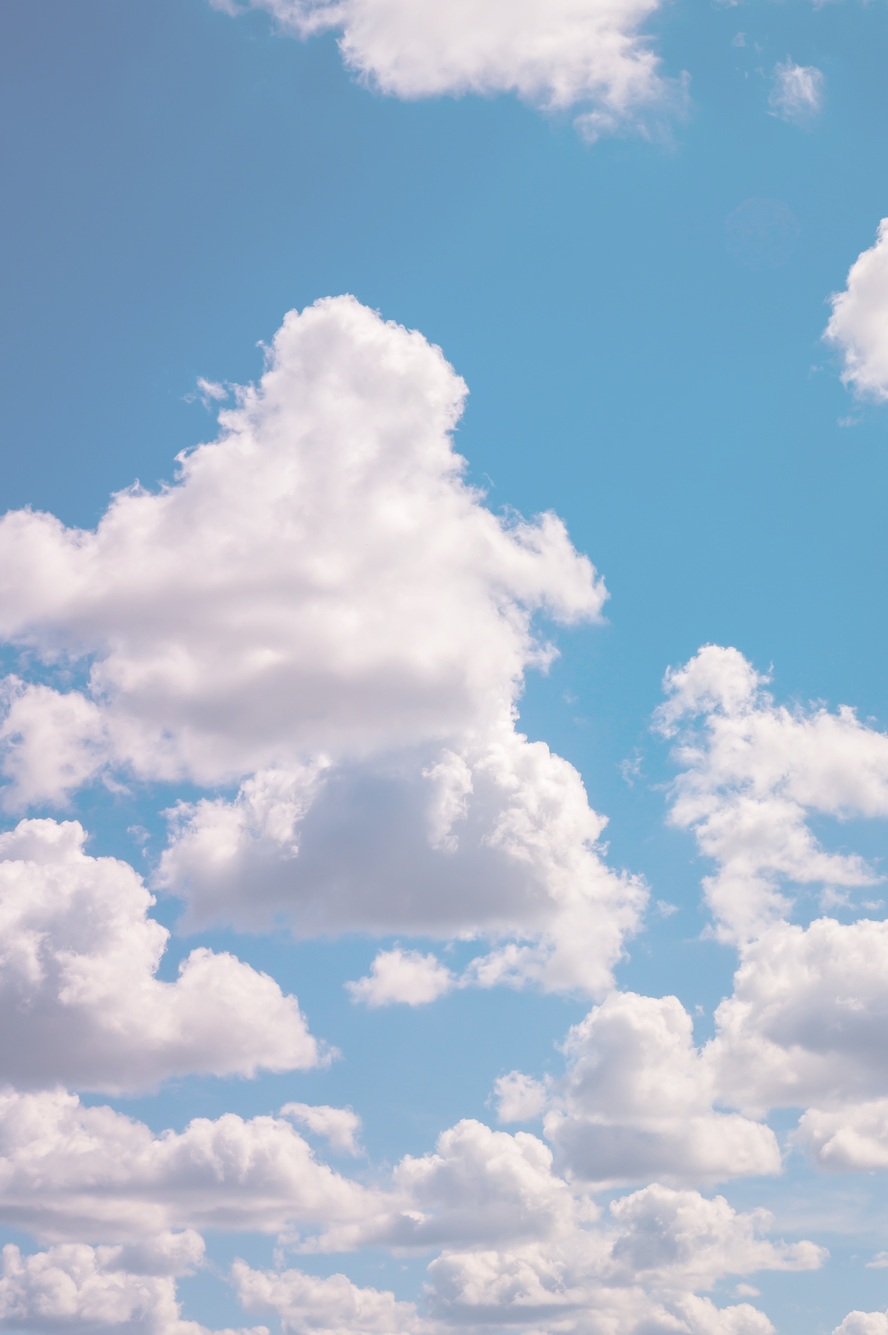
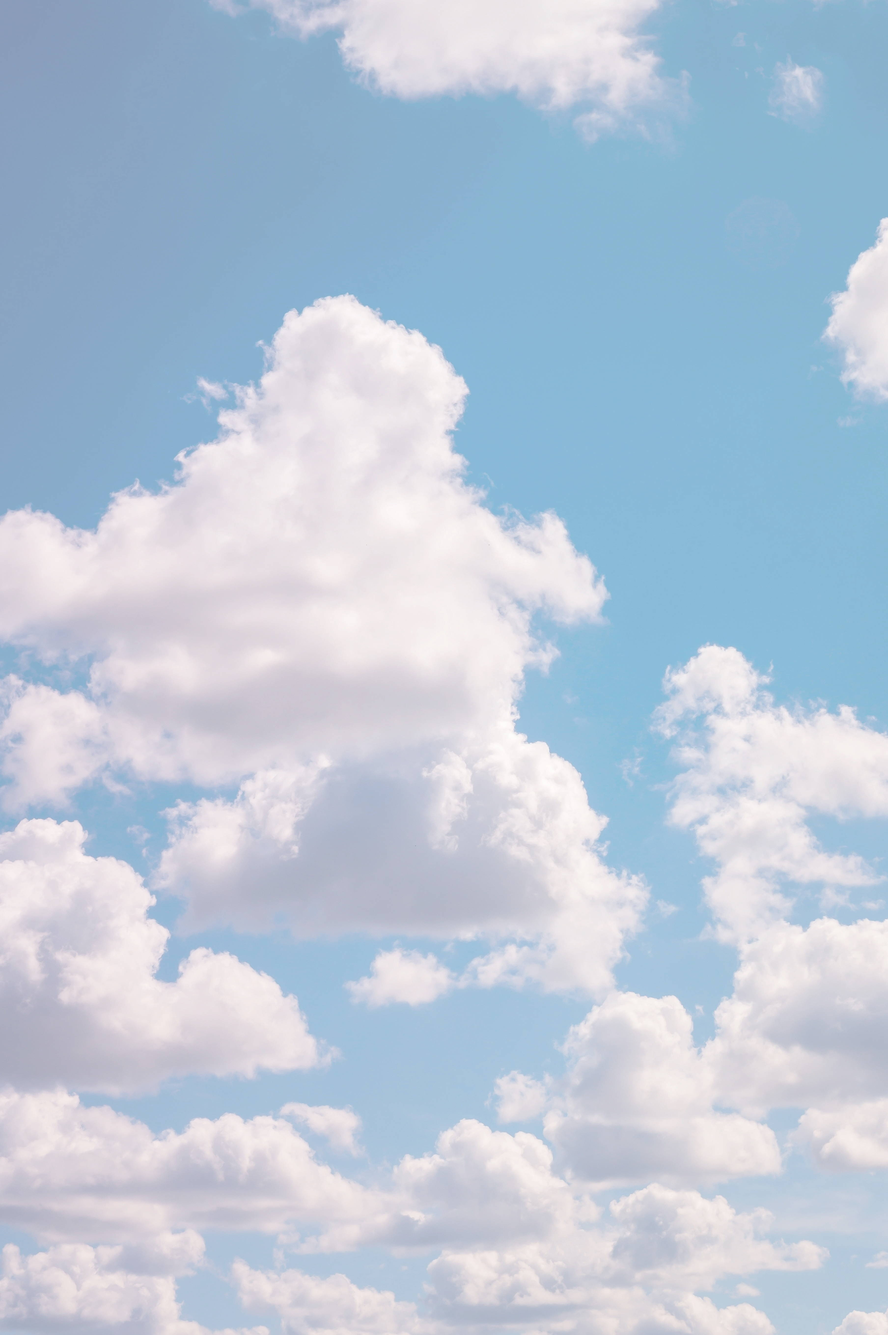
Added another option for background picture

diff --git a/source/script.js b/source/script.js
@@ -129,8 +129,11 @@ let pictureElement = document.querySelector(".container");
 pictureElement.style.backgroundImage = "url('source/sun.jpg')";
   } else if (response.data.weather[0].icon === "01n") {
     pictureElement.style.backgroundImage = "url('source/night.jpg')";
-  } else if (response.data.weather[0].icon === "02d" || response.data.weather[0].icon === "02n" || response.data.weather[0].icon === "03d" || response.data.weather[0].icon === "03n" || response.data.weather[0].icon === "04d" || response.data.weather[0].icon === "04n"){
+  } else if (response.data.weather[0].icon === "02d" || response.data.weather[0].icon === "03d" || response.data.weather[0].icon === "04d"){
 pictureElement.style.backgroundImage = "url('source/clouds.jpg')";
+  }
+else if (response.data.weather[0].icon === "02n" || response.data.weather[0].icon === "03n" || response.data.weather[0].icon === "04n"){
+pictureElement.style.backgroundImage = "url('source/clouds-night.jpg')";
   } else if (response.data.weather[0].icon === "09d" || response.data.weather[0].icon === "09n" || response.data.weather[0].icon === "10d" || response.data.weather[0].icon === "10n"){
 pictureElement.style.backgroundImage = "url('source/rain.jpg')";
   } else if (response.data.weather[0].icon === "13d" || response.data.weather[0].icon === "13n"){

diff --git a/index.html b/index.html
@@ -71,7 +71,7 @@
             </div>
             <div class="col-2">
                 <img id="main-icon" alt="weather forecast icon"
-                src="http://openweathermap.org/img/wn/04d@2x.png"></img>
+                src=""></img>
         </div>
     </div>
     <br />
